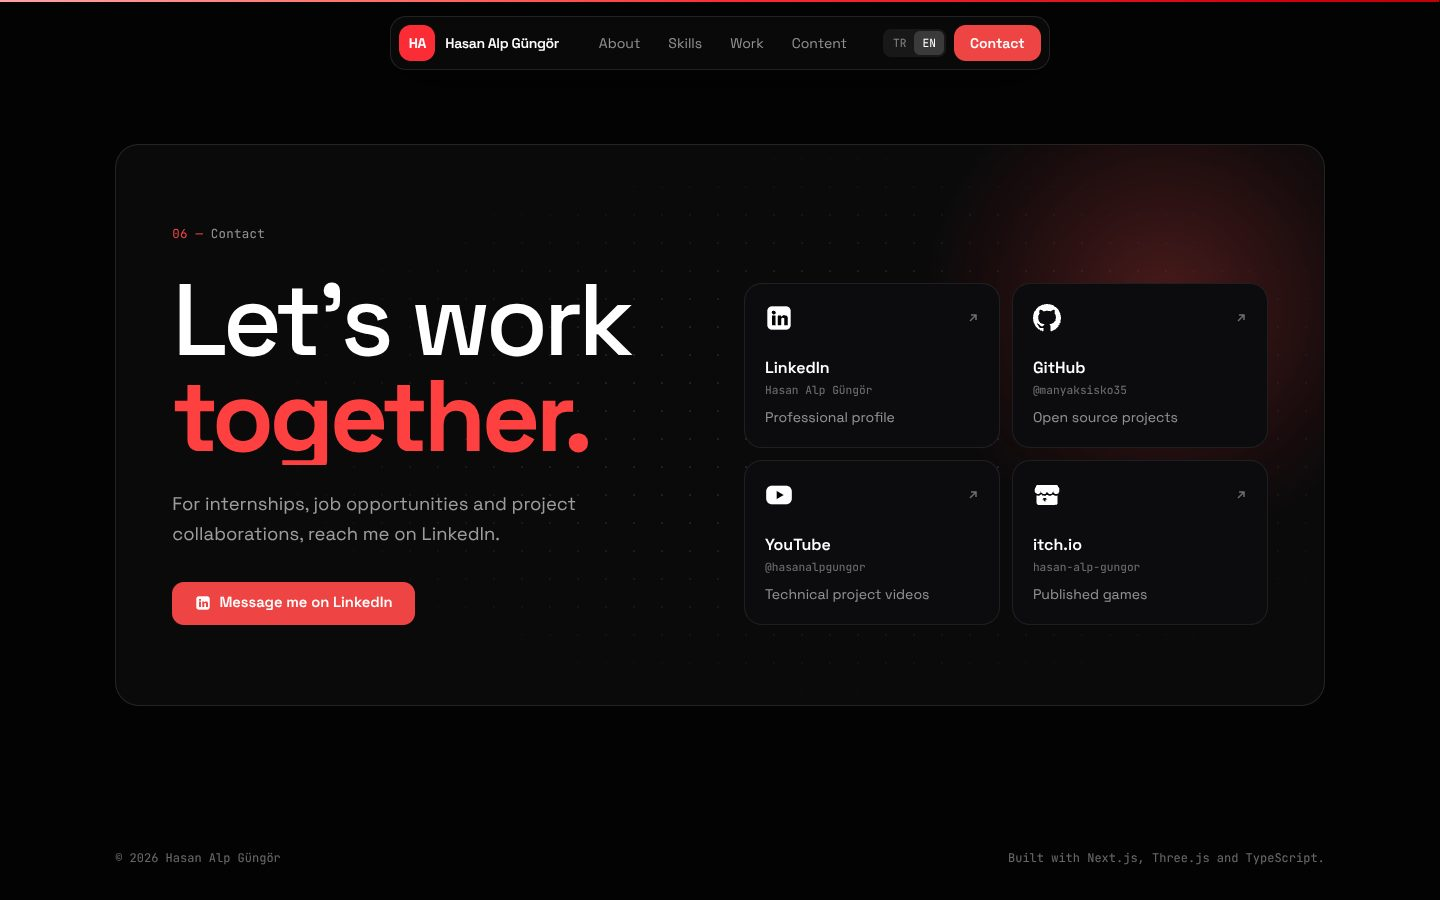
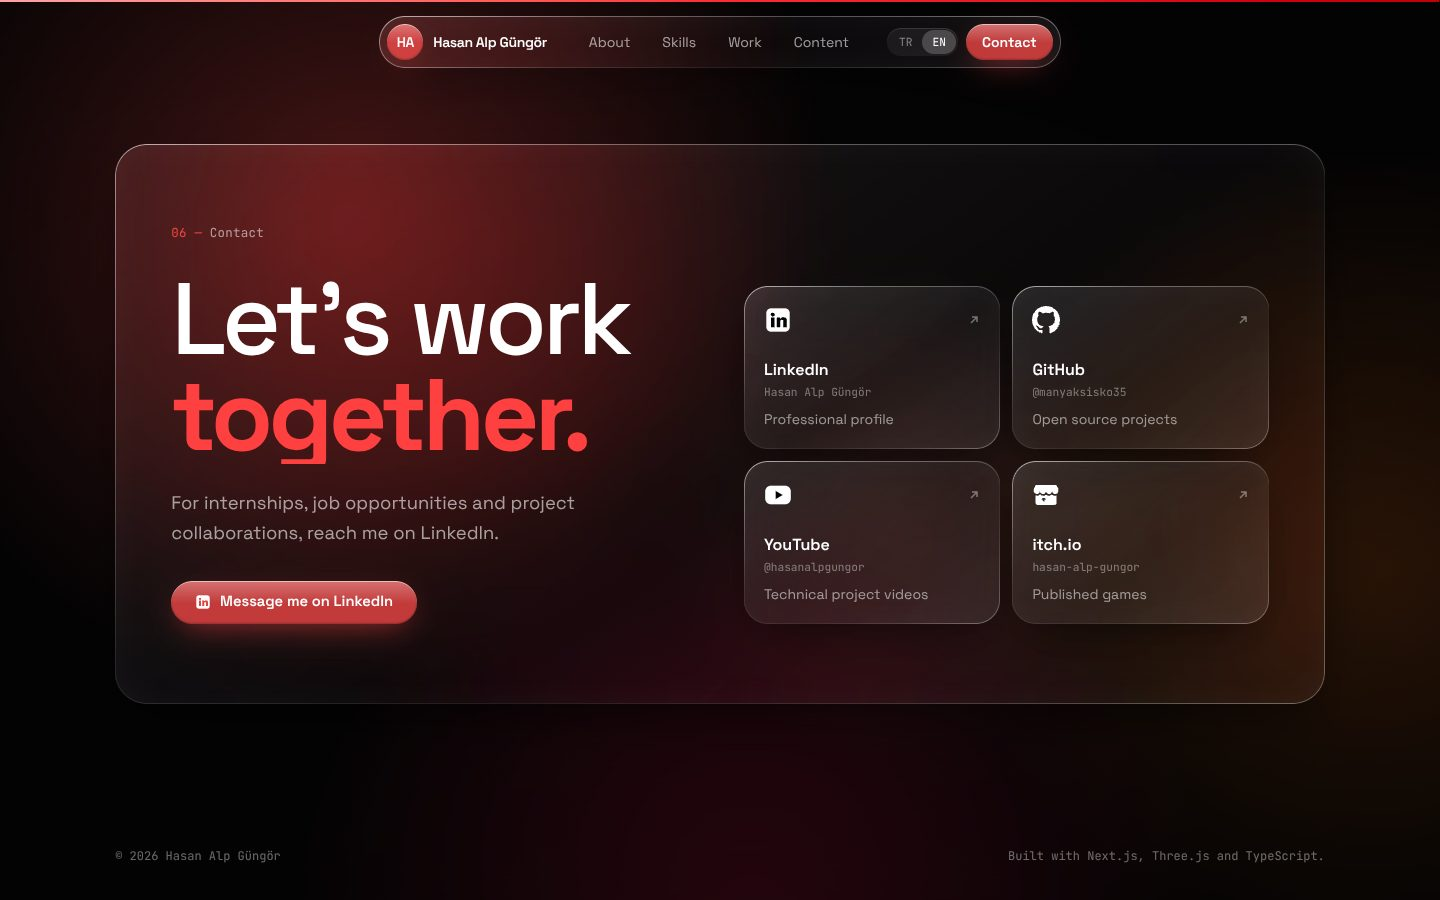
Liquid glass tasarımı
Kartlar, navbar, butonlar ve etiketler yarı saydam cam yüzeylere dönüştü: arka plan bulanıklığı, kenar ışığı ve parlama. Arka plana yavaşça hareket eden kırmızı bir ışık katmanı eklendi.

diff --git a/app/globals.css b/app/globals.css
@@ -80,47 +80,101 @@ h2.ui-title-xl { font-size: clamp(2.6rem, 1.3rem + 5.6vw, 6.5rem); }
 
 .ui-card {
   position: relative;
-  background: #0c0c0e;
-  border: 1px solid rgba(255, 255, 255, 0.08);
-  border-radius: 18px;
-  transition: border-color 0.3s ease, background 0.3s ease;
+  border-radius: 24px;
+}
+.ui-card,
+.glass {
+  background: linear-gradient(145deg, rgba(255, 255, 255, 0.09), rgba(255, 255, 255, 0.025) 55%, rgba(255, 255, 255, 0.05));
+  -webkit-backdrop-filter: blur(24px) saturate(180%);
+  backdrop-filter: blur(24px) saturate(180%);
+  box-shadow:
+    inset 0 1px 0 rgba(255, 255, 255, 0.28),
+    inset 0 -1px 0 rgba(255, 255, 255, 0.06),
+    inset 0 0 24px rgba(255, 255, 255, 0.03),
+    0 18px 50px -20px rgba(0, 0, 0, 0.75);
+  transition: background 0.35s ease, box-shadow 0.35s ease, transform 0.35s ease;
+}
+.glass { position: relative; }
+/* Rim light: a gradient hairline that is brightest on the top-left and bottom-right edges. */
+.ui-card::before,
+.glass::before {
+  content: '';
+  position: absolute;
+  inset: 0;
+  border-radius: inherit;
+  padding: 1px;
+  background: linear-gradient(135deg, rgba(255, 255, 255, 0.5), rgba(255, 255, 255, 0.08) 30%, rgba(255, 255, 255, 0) 55%, rgba(255, 255, 255, 0.08) 75%, rgba(255, 255, 255, 0.32));
+  -webkit-mask: linear-gradient(#000 0 0) content-box, linear-gradient(#000 0 0);
+  -webkit-mask-composite: xor;
+  mask: linear-gradient(#000 0 0) content-box, linear-gradient(#000 0 0);
+  mask-composite: exclude;
+  pointer-events: none;
 }
 .ui-card:hover {
-  border-color: rgba(239, 68, 68, 0.45);
-  background: #100b0b;
+  background: linear-gradient(145deg, rgba(255, 255, 255, 0.13), rgba(255, 255, 255, 0.04) 55%, rgba(255, 255, 255, 0.07));
+  box-shadow:
+    inset 0 1px 0 rgba(255, 255, 255, 0.4),
+    inset 0 -1px 0 rgba(255, 255, 255, 0.08),
+    inset 0 0 30px rgba(255, 255, 255, 0.05),
+    0 24px 60px -20px rgba(0, 0, 0, 0.8);
 }
 
 .ui-btn {
+  position: relative;
   display: inline-flex;
   align-items: center;
   justify-content: center;
   gap: 0.55rem;
-  padding: 0.8rem 1.4rem;
-  border-radius: 12px;
-  background: #ef4444;
+  padding: 0.8rem 1.5rem;
+  border-radius: 999px;
   color: #fff;
   font-weight: 600;
   font-size: 0.92rem;
   line-height: 1.2;
-  transition: background 0.2s ease, transform 0.2s ease, box-shadow 0.2s ease;
+  /* Tinted glass: red light inside a clear shell. */
+  background:
+    linear-gradient(180deg, rgba(255, 255, 255, 0.28), rgba(255, 255, 255, 0) 52%),
+    rgba(239, 68, 68, 0.78);
+  -webkit-backdrop-filter: blur(16px) saturate(180%);
+  backdrop-filter: blur(16px) saturate(180%);
+  box-shadow:
+    inset 0 1px 0 rgba(255, 255, 255, 0.55),
+    inset 0 -1px 2px rgba(0, 0, 0, 0.25),
+    0 10px 30px -10px rgba(239, 68, 68, 0.7);
+  transition: transform 0.25s cubic-bezier(0.2, 0.8, 0.2, 1), box-shadow 0.25s ease, background 0.25s ease;
 }
-.ui-btn { --icon-cut: #ef4444; }
-.ui-btn--ghost { --icon-cut: #030303; }
-.ui-btn:hover { background: #dc2626; box-shadow: 0 10px 30px -12px rgba(239, 68, 68, 0.7); }
-.ui-btn:active { transform: translateY(1px); }
+.ui-btn { --icon-cut: #e0443c; }
+.ui-btn--ghost { --icon-cut: #1a1a1d; }
+.ui-btn:hover {
+  transform: translateY(-1px) scale(1.03);
+  box-shadow:
+    inset 0 1px 0 rgba(255, 255, 255, 0.65),
+    inset 0 -1px 2px rgba(0, 0, 0, 0.25),
+    0 14px 36px -10px rgba(239, 68, 68, 0.85);
+}
+.ui-btn:active { transform: scale(0.97); }
 .ui-btn--ghost {
-  background: transparent;
-  color: #fff;
-  border: 1px solid rgba(255, 255, 255, 0.18);
+  background:
+    linear-gradient(180deg, rgba(255, 255, 255, 0.16), rgba(255, 255, 255, 0.03) 60%),
+    rgba(255, 255, 255, 0.04);
+  box-shadow:
+    inset 0 1px 0 rgba(255, 255, 255, 0.35),
+    inset 0 0 0 1px rgba(255, 255, 255, 0.1),
+    0 10px 30px -14px rgba(0, 0, 0, 0.7);
 }
-.ui-btn--ghost:hover { background: rgba(255, 255, 255, 0.06); border-color: rgba(255, 255, 255, 0.4); box-shadow: none; }
+.ui-btn--ghost:hover {
+  box-shadow:
+    inset 0 1px 0 rgba(255, 255, 255, 0.45),
+    inset 0 0 0 1px rgba(255, 255, 255, 0.18),
+    0 14px 34px -14px rgba(0, 0, 0, 0.8);
+}
 
 :focus-visible {
   outline: 2px solid #ff4d4d;
   outline-offset: 3px;
   border-radius: 6px;
 }
-.ui-btn:focus-visible { border-radius: 12px; }
+.ui-btn:focus-visible { border-radius: 999px; }
 button.rounded-full:focus-visible,
 a.rounded-full:focus-visible { border-radius: 999px; }
 
@@ -228,10 +282,10 @@ a.rounded-full:focus-visible { border-radius: 999px; }
   gap: 0.6rem;
   padding: 0.45rem 0.85rem 0.45rem 0.5rem;
   border-radius: 999px;
-  border: 1px solid rgba(255, 255, 255, 0.14);
-  background: rgba(8, 8, 10, 0.72);
-  backdrop-filter: blur(10px);
-  -webkit-backdrop-filter: blur(10px);
+  background: linear-gradient(180deg, rgba(255, 255, 255, 0.14), rgba(255, 255, 255, 0.04));
+  -webkit-backdrop-filter: blur(18px) saturate(180%);
+  backdrop-filter: blur(18px) saturate(180%);
+  box-shadow: inset 0 1px 0 rgba(255, 255, 255, 0.35), inset 0 0 0 1px rgba(255, 255, 255, 0.1), 0 10px 30px -12px rgba(0, 0, 0, 0.7);
   white-space: nowrap;
   font-family: var(--font-sans);
   opacity: var(--part-labels, 0);
@@ -267,18 +321,6 @@ a.rounded-full:focus-visible { border-radius: 999px; }
   }
 }
 
-/* Hero backdrop: a dotted grid and a soft red light. */
-.hero-grid {
-  background-image: radial-gradient(rgba(255, 255, 255, 0.09) 1px, transparent 1px);
-  background-size: 28px 28px;
-  -webkit-mask-image: radial-gradient(70% 70% at 60% 50%, #000 30%, transparent 75%);
-  mask-image: radial-gradient(70% 70% at 60% 50%, #000 30%, transparent 75%);
-}
-.hero-light {
-  background: radial-gradient(closest-side, rgba(239, 68, 68, 0.28), rgba(153, 27, 27, 0.1) 55%, transparent 75%);
-  filter: blur(10px);
-}
-
 /* Cards light up under the pointer (see Spotlight). */
 .ui-card::after {
   content: '';
@@ -286,7 +328,7 @@ a.rounded-full:focus-visible { border-radius: 999px; }
   inset: 0;
   border-radius: inherit;
   pointer-events: none;
-  background: radial-gradient(420px circle at var(--mx, 50%) var(--my, 50%), rgba(239, 68, 68, 0.1), transparent 40%);
+  background: radial-gradient(380px circle at var(--mx, 50%) var(--my, 50%), rgba(255, 255, 255, 0.09), transparent 45%);
   opacity: 0;
   transition: opacity 0.3s ease;
 }
@@ -303,4 +345,39 @@ a.rounded-full:focus-visible { border-radius: 999px; }
     opacity: 1;
     transform: none;
   }
+}
+
+/* Liquid backdrop: slow, blurred red light that the glass refracts. */
+.liquid-bg {
+  position: fixed;
+  inset: 0;
+  z-index: -1;
+  overflow: hidden;
+  pointer-events: none;
+  background: #050304;
+}
+.liquid-bg span {
+  position: absolute;
+  border-radius: 50%;
+  will-change: transform;
+  animation: liquid-drift 26s ease-in-out infinite alternate;
+}
+.liquid-bg span:nth-child(1) { width: 60vmax; height: 60vmax; left: -12vmax; top: -18vmax; background: radial-gradient(closest-side, rgba(239, 68, 68, 0.55), transparent); }
+.liquid-bg span:nth-child(2) { width: 52vmax; height: 52vmax; right: -16vmax; top: 18vh; background: radial-gradient(closest-side, rgba(249, 115, 22, 0.32), transparent); animation-duration: 32s; animation-delay: -8s; }
+.liquid-bg span:nth-child(3) { width: 58vmax; height: 58vmax; left: 18vw; bottom: -30vmax; background: radial-gradient(closest-side, rgba(190, 18, 60, 0.5), transparent); animation-duration: 38s; animation-delay: -14s; }
+.liquid-bg span:nth-child(4) { width: 34vmax; height: 34vmax; left: 46vw; top: 30vh; background: radial-gradient(closest-side, rgba(255, 140, 120, 0.18), transparent); animation-duration: 22s; animation-delay: -4s; }
+/* Darkens the light so text stays readable. */
+.liquid-bg::after {
+  content: '';
+  position: absolute;
+  inset: 0;
+  background: radial-gradient(120% 90% at 50% 40%, rgba(3, 3, 3, 0.35), rgba(3, 3, 3, 0.78));
+}
+@keyframes liquid-drift {
+  0% { transform: translate3d(0, 0, 0) scale(1); }
+  50% { transform: translate3d(6vw, 4vh, 0) scale(1.12); }
+  100% { transform: translate3d(-5vw, -3vh, 0) scale(0.95); }
+}
+@media (prefers-reduced-motion: reduce) {
+  .liquid-bg span { animation: none; }
 }

diff --git a/components/Navbar.tsx b/components/Navbar.tsx
@@ -11,13 +11,13 @@ const NAV = SECTIONS.filter((s) => s.nav);
 function LangToggle({ className = '' }: { className?: string }) {
   const lang = useLang();
   return (
-    <div className={`flex rounded-lg bg-white/[0.06] p-0.5 font-mono text-[0.7rem] ${className}`} role="group" aria-label="Language">
+    <div className={`flex rounded-full bg-white/[0.06] shadow-[inset_0_1px_0_rgba(255,255,255,0.12)] p-0.5 font-mono text-[0.7rem] ${className}`} role="group" aria-label="Language">
       {(['tr', 'en'] as const).map((l) => (
         <button
           key={l}
           onClick={() => setLang(l)}
           aria-pressed={lang === l}
-          className={`rounded-md px-2 py-1 uppercase transition-colors ${lang === l ? 'bg-white/15 text-white' : 'text-white/45 hover:text-white'}`}
+          className={`rounded-full px-2.5 py-1 uppercase transition-colors ${lang === l ? 'bg-white/20 text-white' : 'text-white/45 hover:text-white'}`}
         >
           {l}
         </button>
@@ -40,9 +40,9 @@ export default function Navbar() {
 
   return (
     <header className="fixed top-3 md:top-4 inset-x-3 md:inset-x-0 z-50 flex justify-center pointer-events-none">
-      <div className="pointer-events-auto relative w-full md:w-auto flex items-center gap-2 md:gap-6 rounded-2xl border border-white/10 bg-[#0a0a0b]/80 backdrop-blur-xl pl-2 pr-2 py-2 shadow-[0_10px_40px_-10px_rgba(0,0,0,0.8)]">
+      <div className="glass pointer-events-auto w-full md:w-auto flex items-center gap-2 md:gap-6 rounded-full pl-2 pr-2 py-2">
         <a href="#top" onClick={(e) => go(e, 'top')} className="flex items-center gap-2.5 pr-1">
-          <span className="grid place-items-center w-9 h-9 rounded-xl bg-red-500 text-sm font-bold tracking-tight">HA</span>
+          <span className="ui-btn !p-0 grid place-items-center w-9 h-9 !text-sm font-bold tracking-tight">HA</span>
           <span className="text-sm font-semibold tracking-tight whitespace-nowrap">Hasan Alp Güngör</span>
         </a>
 
@@ -54,7 +54,7 @@ export default function Navbar() {
                 key={s.id}
                 href={`#${s.id}`}
                 onClick={(e) => go(e, s.id)}
-                className={`rounded-lg px-3 py-2 transition-colors ${isActive ? 'bg-white/10 text-white' : 'text-white/55 hover:text-white'}`}
+                className={`rounded-full px-3.5 py-2 transition-all ${isActive ? 'bg-white/12 text-white shadow-[inset_0_1px_0_rgba(255,255,255,0.25)]' : 'text-white/60 hover:text-white'}`}
               >
                 {t(s.label)}
               </a>
@@ -79,13 +79,13 @@ export default function Navbar() {
         </div>
 
         {open && (
-          <nav className="lg:hidden absolute top-[calc(100%+8px)] inset-x-0 rounded-2xl border border-white/10 bg-[#0a0a0b]/95 backdrop-blur-xl flex flex-col p-2">
+          <nav className="glass lg:hidden absolute top-[calc(100%+10px)] inset-x-0 rounded-[28px] flex flex-col p-2">
             {SECTIONS.map((s) => (
               <a
                 key={s.id}
                 href={`#${s.id}`}
                 onClick={(e) => go(e, s.id)}
-                className={`rounded-xl px-4 py-3 text-base ${active === s.id ? 'bg-white/10 text-white' : 'text-white/60'}`}
+                className={`rounded-full px-4 py-3 text-base ${active === s.id ? 'bg-white/10 text-white' : 'text-white/60'}`}
               >
                 {t(s.label)}
               </a>

diff --git a/components/Work.tsx b/components/Work.tsx
@@ -63,7 +63,7 @@ export default function Work() {
   );
 
   return (
-    <section ref={section} id="work" className="ui-ambient amb-red relative z-10 bg-[#030303] lg:h-svh lg:overflow-hidden">
+    <section ref={section} id="work" className="relative z-10 lg:h-svh lg:overflow-hidden">
       <div
         ref={track}
         className="flex flex-col lg:flex-row lg:items-center gap-6 lg:gap-8 px-6 lg:px-[8%] py-24 lg:py-0 lg:h-full lg:w-max will-change-transform"
@@ -92,7 +92,7 @@ export default function Work() {
           <article
             key={c.name}
             data-card
-            className="group relative flex flex-col overflow-hidden rounded-[20px] lg:rounded-[20px] border border-white/10 bg-[#0b0b0d] transition-colors duration-300 hover:border-white/25 lg:w-[min(58vw,860px)] lg:h-[74svh] lg:shrink-0"
+            className="group relative flex flex-col overflow-hidden ui-card !rounded-[28px] lg:w-[min(58vw,860px)] lg:h-[74svh] lg:shrink-0"
           >
             <div data-media className="relative aspect-[16/10] lg:aspect-auto lg:flex-1 overflow-hidden" style={{ background: c.glow }}>
               <Image
@@ -136,7 +136,7 @@ export default function Work() {
           href={LINKS.github}
           target="_blank"
           rel="noopener noreferrer"
-          className="group ui-card relative flex flex-col justify-end p-7 lg:p-10 min-h-64 lg:w-[30vw] lg:h-[74svh] lg:shrink-0 overflow-hidden !rounded-[20px] lg:!rounded-[20px]"
+          className="group ui-card relative flex flex-col justify-end p-7 lg:p-10 min-h-64 lg:w-[30vw] lg:h-[74svh] lg:shrink-0 overflow-hidden !rounded-[28px] lg:!rounded-[28px]"
         >
           <div className="absolute inset-0 -z-10 opacity-80" style={{ background: 'radial-gradient(60% 50% at 70% 30%, rgba(239,68,68,0.25), transparent 70%)' }} />
           <p className="ui-label ui-label--plain font-mono text-xs text-white/40 mb-3">GitHub</p>

diff --git a/components/Hero.tsx b/components/Hero.tsx
@@ -46,7 +46,7 @@ export default function Hero() {
     >
       <div className="max-w-7xl mx-auto h-full flex flex-col justify-start lg:justify-center pt-28 lg:pt-16">
         <div className="lg:max-w-[52%]">
-          <p className="hero-in ui-label ui-label--plain mb-5 md:mb-7 inline-flex items-center gap-2 rounded-full border border-white/10 bg-white/[0.03] px-3 py-1.5">
+          <p className="hero-in ui-label ui-label--plain mb-5 md:mb-7 glass inline-flex items-center gap-2 rounded-full px-3.5 py-1.5">
             <span className="w-1.5 h-1.5 rounded-full bg-red-500" />
             {t({ tr: 'Bilgisayar Programcılığı Öğrencisi · Oyun Geliştirici', en: 'Computer Programming Student · Game Developer' })}
           </p>
@@ -85,7 +85,7 @@ export default function Hero() {
                 target="_blank"
                 rel="noopener noreferrer"
                 aria-label={label}
-                className="grid place-items-center w-11 h-11 rounded-xl border border-white/10 text-white/70 transition-colors hover:text-white hover:border-white/30 hover:bg-white/5"
+                className="ui-btn ui-btn--ghost !p-0 grid place-items-center w-11 h-11 text-white/80"
               >
                 <Icon className="w-[18px] h-[18px]" />
               </a>

diff --git a/components/Contact.tsx b/components/Contact.tsx
@@ -16,10 +16,8 @@ export default function Contact() {
 
   return (
     <>
-      <section id="contact" className="relative z-10 bg-[#030303] px-6 lg:px-[8%] py-24 lg:py-36">
-        <div className="relative max-w-7xl mx-auto overflow-hidden rounded-[24px] border border-white/10 bg-[#0a0a0b]">
-          <div aria-hidden className="hero-grid absolute inset-0" />
-          <div aria-hidden className="hero-light absolute -right-40 -top-40 w-[640px] aspect-square rounded-full" />
+      <section id="contact" className="relative z-10 px-6 lg:px-[8%] py-24 lg:py-36">
+        <div className="glass relative max-w-7xl mx-auto overflow-hidden rounded-[32px]">
 
           <div className="relative grid lg:grid-cols-2 gap-12 px-6 py-14 lg:px-14 lg:py-20">
             <div>
@@ -68,7 +66,7 @@ export default function Contact() {
         </div>
       </section>
 
-      <footer className="relative z-10 bg-[#030303] px-6 lg:px-[8%] pb-10">
+      <footer className="relative z-10 px-6 lg:px-[8%] pb-10">
         <div className="max-w-7xl mx-auto flex flex-col md:flex-row gap-3 md:items-center justify-between font-mono text-xs text-white/40">
           <p>© 2026 Hasan Alp Güngör</p>
           <p>

diff --git a/components/Videos.tsx b/components/Videos.tsx
@@ -8,7 +8,7 @@ export default function Videos() {
   const t = useT();
 
   return (
-    <section id="videos" className="relative z-10 bg-[#030303] px-6 lg:px-[8%] py-24 lg:py-36">
+    <section id="videos" className="relative z-10 px-6 lg:px-[8%] py-24 lg:py-36">
       <div className="max-w-7xl mx-auto grid lg:grid-cols-[minmax(0,5fr)_minmax(0,7fr)] gap-10 lg:gap-16">
         <div className="lg:sticky lg:top-28 lg:self-start">
           <p className="ui-label mb-3 lg:mb-5">{t({ tr: 'İçerik', en: 'Content' })}</p>
@@ -29,7 +29,7 @@ export default function Videos() {
           </a>
         </div>
 
-        <ol className="ui-card !rounded-[20px] divide-y divide-white/[0.07] overflow-hidden">
+        <ol className="ui-card !rounded-[28px] divide-y divide-white/[0.07] overflow-hidden">
           {VIDEOS.map((v, i) => (
             <li key={v.href} data-reveal>
               <a

diff --git a/app/page.tsx b/app/page.tsx
@@ -5,7 +5,6 @@ import About from '@/components/About';
 import Contact from '@/components/Contact';
 import HeadlineReveal from '@/components/HeadlineReveal';
 import Hero from '@/components/Hero';
-import HeroGlow from '@/components/HeroGlow';
 import Loader from '@/components/Loader';
 import MoreWork from '@/components/MoreWork';
 import Navbar from '@/components/Navbar';
@@ -35,9 +34,15 @@ export default function Home() {
       <HeadlineReveal />
       <Reveal />
 
-      <main className="relative w-full bg-[#030303]">
+      <div aria-hidden className="liquid-bg">
+        <span />
+        <span />
+        <span />
+        <span />
+      </div>
+
+      <main className="relative w-full">
         <div className="fixed inset-0 z-0 pointer-events-none">
-          <HeroGlow />
           <Scene />
         </div>
 

diff --git a/components/MoreWork.tsx b/components/MoreWork.tsx
@@ -8,7 +8,7 @@ export default function MoreWork() {
   const t = useT();
 
   return (
-    <section id="more" className="ui-ambient amb-red relative z-10 bg-[#030303] px-6 lg:px-[8%] py-24 lg:py-36">
+    <section id="more" className="relative z-10 px-6 lg:px-[8%] py-24 lg:py-36">
       <div className="max-w-7xl mx-auto">
         <p className="ui-label mb-3 lg:mb-5">{t({ tr: 'Diğer projeler', en: 'More work' })}</p>
         <h2 className="ui-title max-w-3xl">

diff --git a/components/About.tsx b/components/About.tsx
@@ -72,7 +72,7 @@ export default function About() {
   const t = useT();
 
   return (
-    <section id="about" className="relative z-10 bg-[#030303] px-6 lg:px-[8%] py-24 lg:py-36">
+    <section id="about" className="relative z-10 px-6 lg:px-[8%] py-24 lg:py-36">
       <div className="max-w-7xl mx-auto">
         <p className="ui-label mb-3 lg:mb-5">{t({ tr: 'Hakkımda', en: 'About' })}</p>
         <h2 className="ui-title max-w-4xl">

diff --git a/README.md b/README.md
@@ -12,7 +12,7 @@ My personal site and portfolio: who I am, my education, skills, projects and vid
 - **My videos:** a selection from my YouTube channel, where I bring CS2 into real life with ESP32 builds.
 - **My projects:** a pinned, horizontally scrolling gallery of my S26 Ultra, Buds4 Pro, Watch Ultra2 and Ring concept sites.
 - **Turkish and English:** switch from the navbar; the choice is remembered.
-- A small branded loader, a floating navbar and a scroll progress bar.
+- Liquid glass design: translucent, blurred surfaces with rim highlights over a slowly moving red light, a floating capsule navbar and glass buttons.
 
 ## Screenshots
 
